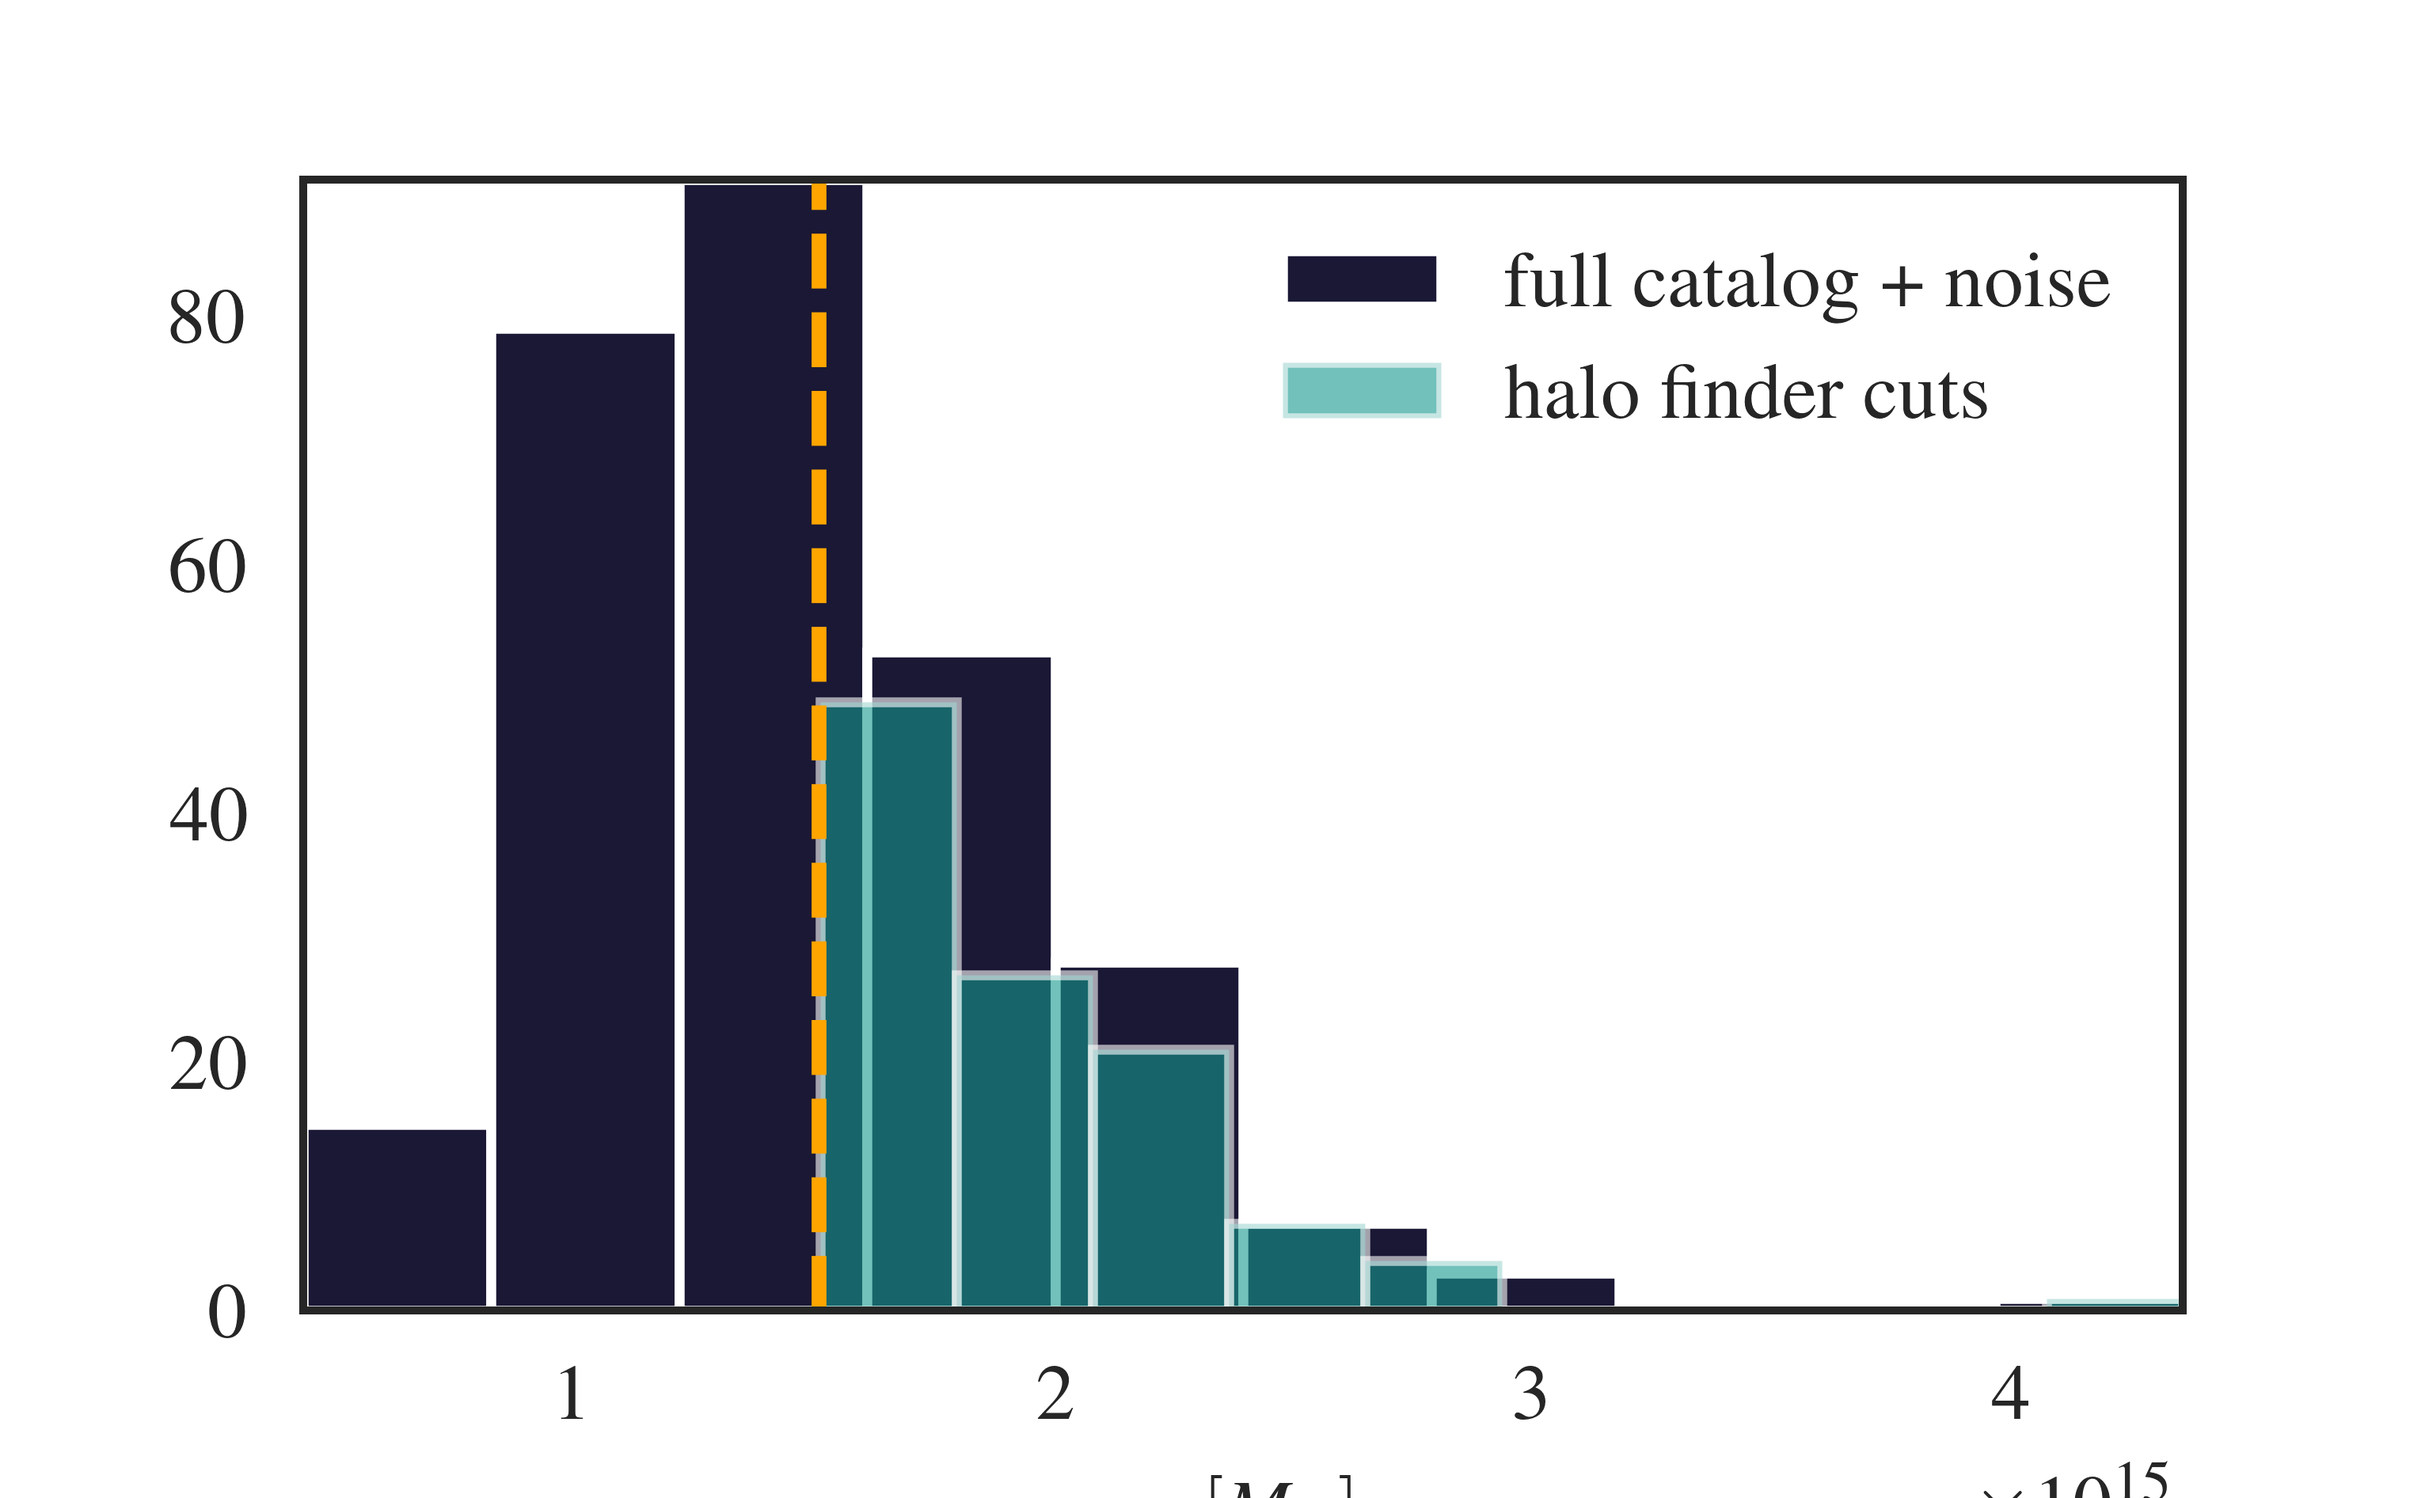
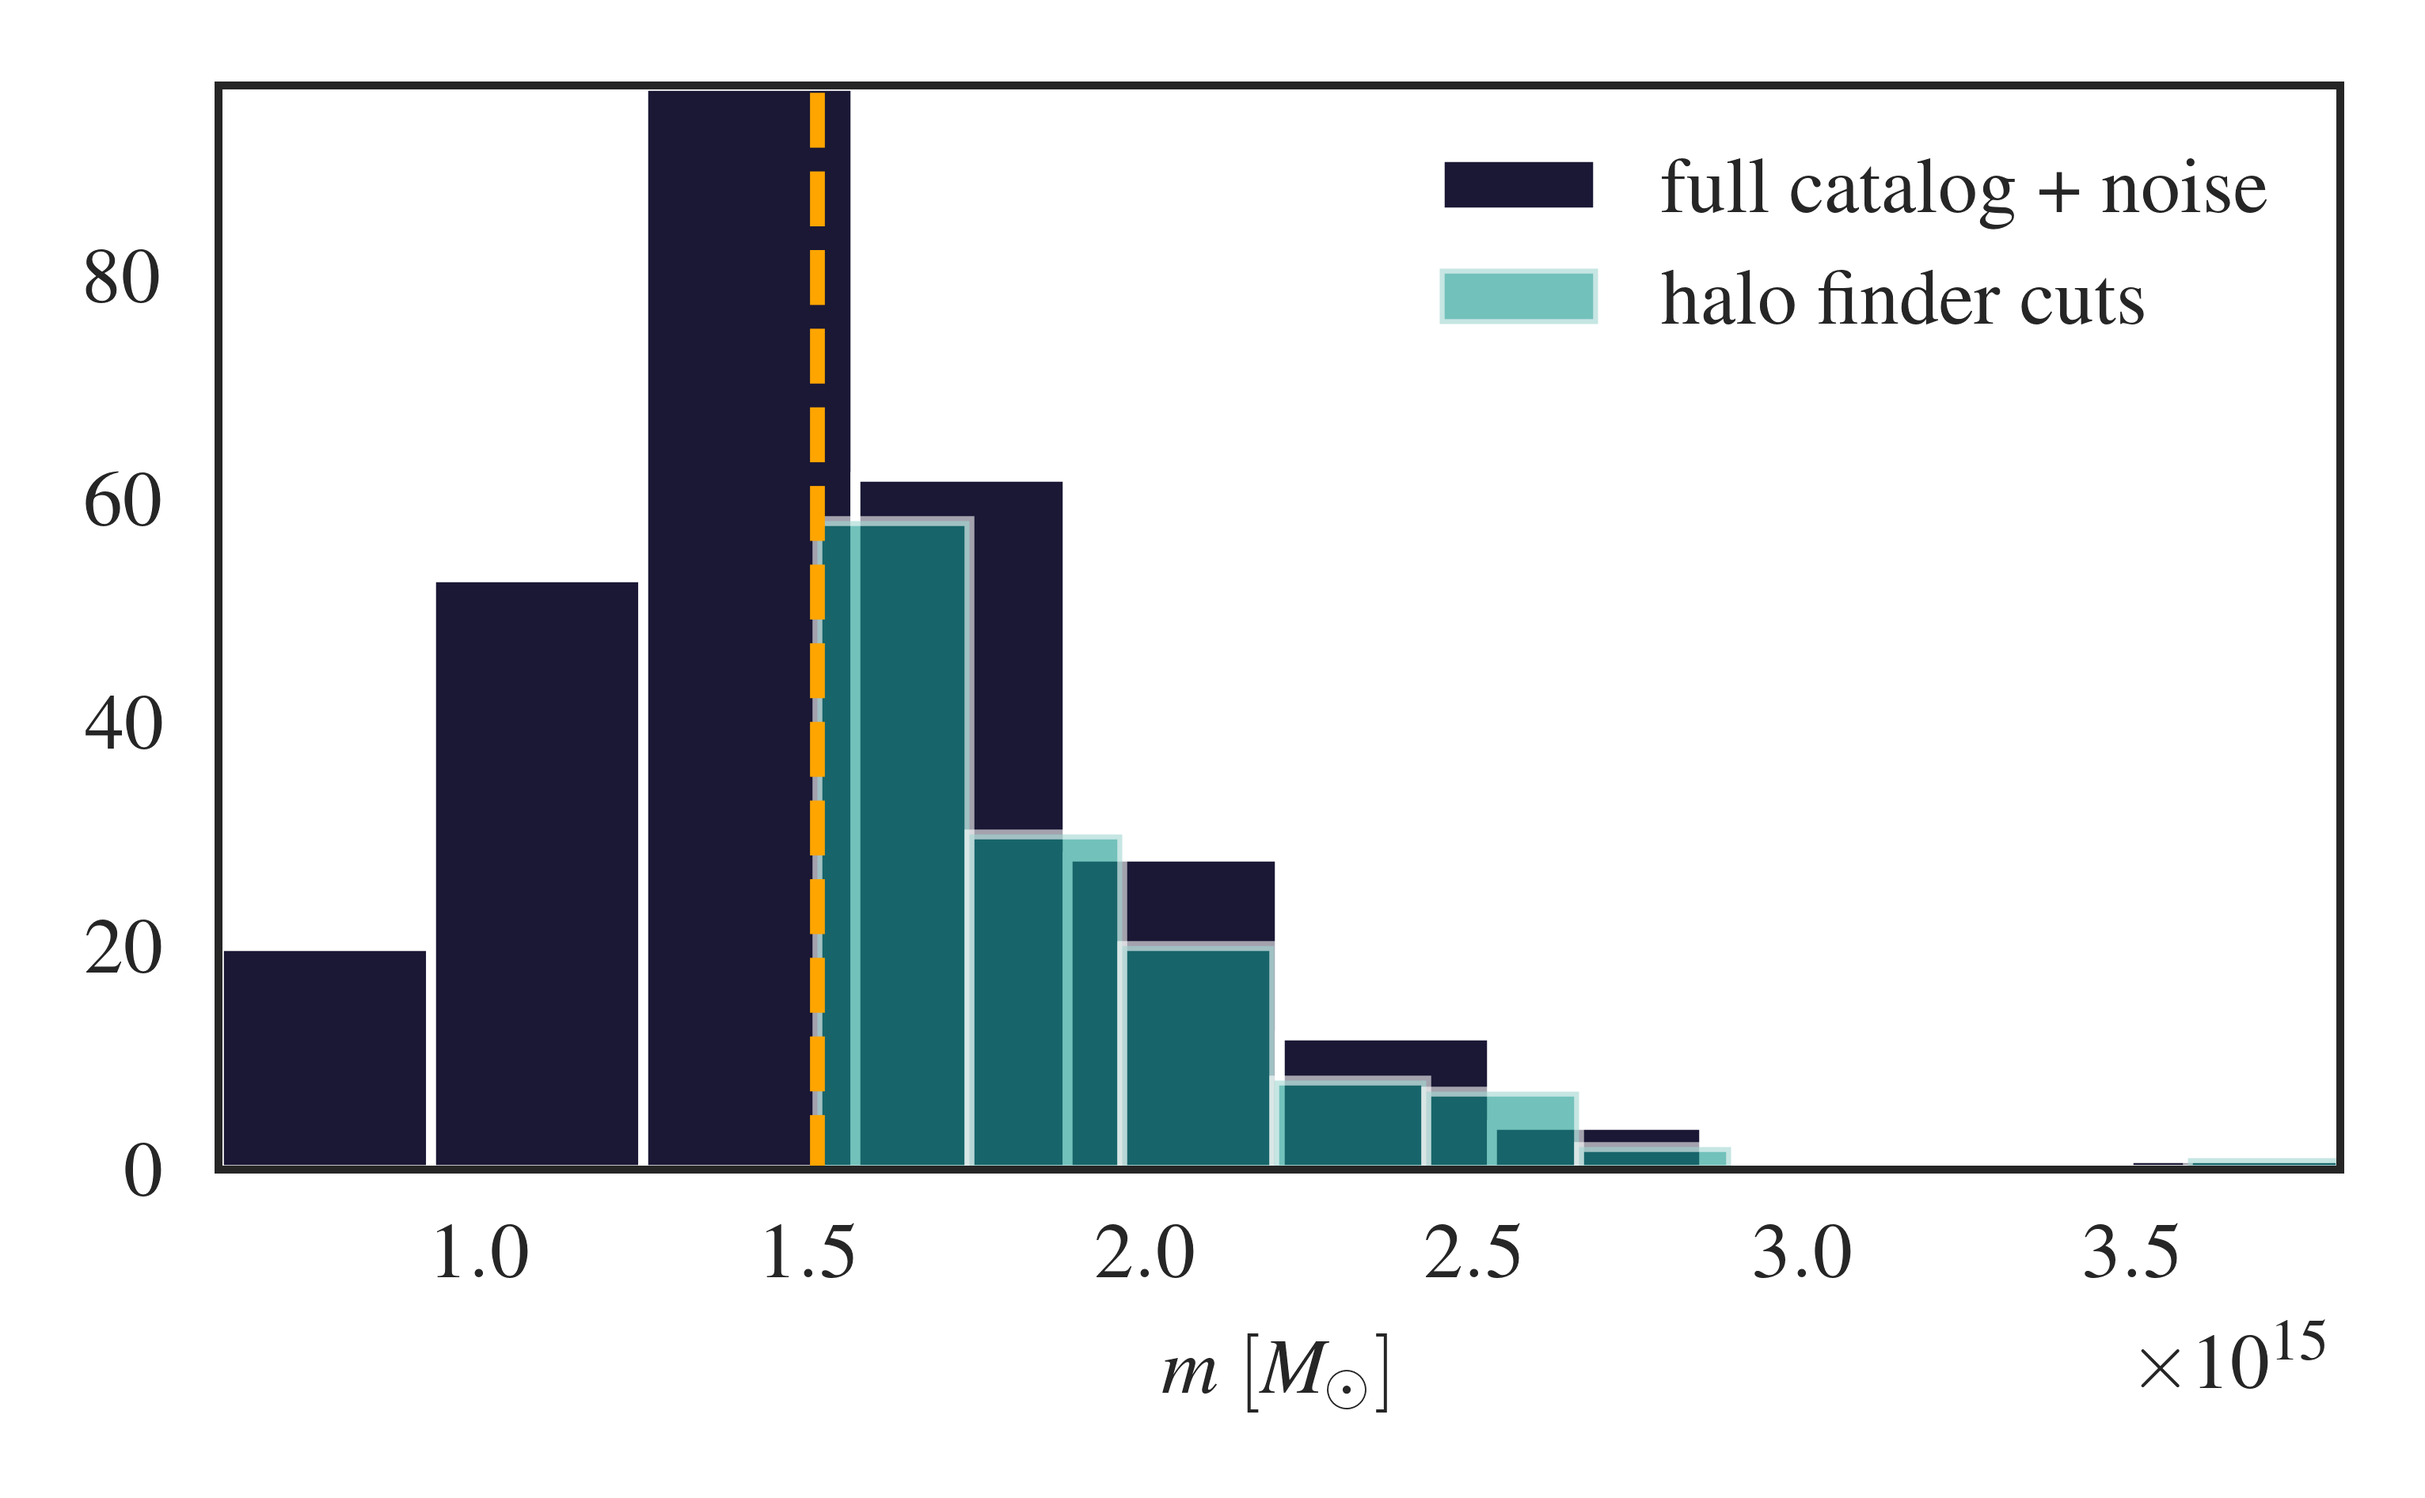
tweaks to blog theme and about

diff --git a/_posts/2022-09-12-cosmicgraphs.md b/_posts/2022-09-12-cosmicgraphs.md
@@ -1,4 +1,70 @@
 ---
+layout: distill
+title: "Cosmic Graphs: the Language of Large-Scale Structure"
+description: how much information is locked inside halo catalogues ?
+giscus_comments: true
+date: 2022-09-12 11:59:00-0400
+featured: true
+
+authors:
+  - name: T. Lucas Makinen
+    url: "https://en.wikipedia.org/wiki/Albert_Einstein"
+    affiliations:
+      name: Imperial College London
+
+bibliography: 2018-12-22-distill.bib
+
+# Optionally, you can add a table of contents to your post.
+# NOTES:
+#   - make sure that TOC names match the actual section names
+#     for hyperlinks within the post to work correctly.
+#   - we may want to automate TOC generation in the future using
+#     jekyll-toc plugin (https://github.com/toshimaru/jekyll-toc).
+toc:
+  # beginning: true
+  - name: Cosmology as an optimization problem
+    # if a section has subsections, you can add them as follows:
+    # subsections:
+    #    - name: "What is a graph ?"
+    #   - name: Example Child Subsection 2
+  - name: "Graphs: a Language for Large-Scale Structure"
+  # - name: "Extracting Information from graphs"
+  - name: "Graph Neural Networks"
+
+  - name: "Part I: varying graph connections and GNN complexity"
+
+  - name: "Part II: Incorporating Halo Mass"
+
+  - name: "Part III: A more realistic case: adding survey noise"
+
+       # - name: What is a graph ?
+  # - name: Footnotes
+  # - name: Code Blocks
+  # - name: Interactive Plots
+  # - name: Layouts
+  # - name: Other Typography?
+
+# Below is an example of injecting additional post-specific styles.
+# If you use this post as a template, delete this _styles block.
+# _styles: >
+#   .fake-img {
+#     background: #bbb;
+#     border: 1px solid rgba(0, 0, 0, 0.1);
+#     box-shadow: 0 0px 4px rgba(0, 0, 0, 0.1);
+#     margin-bottom: 12px;
+#   }
+#   .fake-img p {
+#     font-family: monospace;
+#     color: white;
+#     text-align: left;
+#     margin: 12px 0;
+#     text-align: center;
+#     font-size: 16px;
+#   }
+
+---
+
+<!-- ---
 layout: post
 title: "Cosmic Graphs: the Language of Large-Scale Structure"
 date: 2022-09-12 11:59:00-0400
@@ -8,13 +74,15 @@ giscus_comments: true
 related_posts: false
 toc:
   beginning: true
----
+featured: true
+--- -->
+
 
 
  
 <figure class="align-center">
 <p align="center">
-  <img src="https://media4.giphy.com/media/b8ICuMdjg37vQNjwTA/giphy.gif?cid=790b7611da6738a8551bc2d92f2eb821b6d853092aa22ca9&rid=giphy.gif" alt="dark matter graph" style="width:70%">
+  <img src="https://media4.giphy.com/media/b8ICuMdjg37vQNjwTA/giphy.gif?cid=790b7611da6738a8551bc2d92f2eb821b6d853092aa22ca9&rid=giphy.gif" alt="dark matter graph" style="width:70%" zoomable=true>
       </p>
   <figcaption align = "center"> </figcaption>
 </figure>
@@ -57,15 +125,14 @@ Cosmology can be thought of as a multigenerational *optimization problem*, with 
 Since the 1960's, cosmologists have used $n$-point functions to describe structure formation. The image data collected by state-of-the-art surveys are often immediately compressed into (still very large) galaxy and cluster catalogues, whose pairwise (2-point), triplet (3-point), ... distances can be compared to quantify how clustered the universe is on different scales.
 
 
-<figure  class="center">
-  <p align="center">
-    <img src="https://raw.githubusercontent.com/tlmakinen/cosmicGraphs/master/tutorial/twopoint-pk.png" alt="Trulli" width="25%">
-  </p>
-  <figcaption align = "left">
-
-  <b> Figure 1 </b> - <a href="https://universe-review.ca/"> The two-point function </a> in real space can be related to the power spectrum in Fourier space. It only fully describes Gaussian field statistics. </figcaption>
-</figure>
-
+  <div class="row">
+    <div class="col-sm mt-3 mt-md-0">
+        {% include figure.html path="/assets/img/cosmographs/graph_diagram.png" title="example image" class="img-fluid rounded z-depth-0" zoomable=true width=13% %}
+    </div>
+</div>
+<div class="caption">
+    <b> Figure 1 </b> - <a href="https://universe-review.ca/"> The two-point function </a> in real space can be related to the power spectrum in Fourier space. It only fully describes Gaussian field statistics.
+</div>
 
 2-point functions are easy to compute even for large data, but *don't capture all the information in highly non-gaussian fields*, like the LSS. 3-point functions reclaim a lot of this information, but are much more expensive to compute.
 
@@ -74,7 +141,7 @@ Since the 1960's, cosmologists have used $n$-point functions to describe structu
 
 <figure class="align-center">
 <p align="center">
-  <img src="https://media2.giphy.com/media/R2kXFYxbQNjkC5SxBV/giphy.gif?cid=790b7611ba802f5d69ce62b961e6fa17fbd9c61e5d697bf6&rid=giphy.gif" alt="dark matter graph" style="width:70%">
+  <img src="https://media4.giphy.com/media/b8ICuMdjg37vQNjwTA/giphy.gif?cid=790b7611da6738a8551bc2d92f2eb821b6d853092aa22ca9&rid=giphy.gif" alt="dark matter graph" style="width:70%">
       </p>
   <figcaption align = "left"> <b> Figure 2 </b>- Large-Scale Structure as a Graph. Nodes (halos) trace clusters, while edges (halo separations) trace filaments and outline voids. Both sets of features can be annotated with extra information like mass or redshift. </figcaption>
 </figure>
@@ -184,7 +251,7 @@ We trunctate a catalogue to halos with a minumum mass $M_{\rm cut}$. We'll then 
 
 <figure class="align-center">
 <p align="center">
- <img src="https://media3.giphy.com/media/YYELjI6JQ7QMjRFDlB/giphy.gif?cid=790b761182588d309019643cf623a7ea39297ce10bee4db4&rid=giphy.gif" alt="drawing" style="width:70%"/>
+ <img src="https://media4.giphy.com/media/b8ICuMdjg37vQNjwTA/giphy.gif?cid=790b7611da6738a8551bc2d92f2eb821b6d853092aa22ca9&rid=giphy.gif" alt="drawing" style="width:70%"/>
   <figcaption align = "center"> <b> Figure 3 </b> - Graphs are assembled by making a mass cut. The darker nodes and edges are heavier halos above $ M_{\rm cut} = 1.5  \times 10^{15} M_{\rm sun} $, while the lighter graph is smaller-scale structure at $M > 1.1 \times10^{15} M_{\rm sun}$. </figcaption>
   </p>
 </figure>
@@ -228,6 +295,7 @@ $$
 
 
 # Extracting Information from graphs
+
 But how do we extract information from a set of edges and nodes whose size changes ? Enter graph Information Maximising Neural Networks (gIMNNs) ! Remember how cosmology can be thought of as an optimization problem to find informative statistics ? IMNNs do precisely that, from simulations !
 
 <figure>
@@ -330,7 +398,7 @@ We built the IMNN and simulation scheme in the `Jax` framework. For detailed cod
 
 <div class="row">
     <div class="col-sm mt-3 mt-md-0">
-        {% include figure.html path="https://raw.githubusercontent.com/tlmakinen/tlmakinen.github.io/master/assets/cosmographs/info-extraction-cartoon.png" title="example image" class="img-fluid rounded z-depth-0" %}
+        {% include figure.html path="https://raw.githubusercontent.com/tlmakinen/tlmakinen.github.io/master/assets/cosmographs/info-extraction-cartoon.png" title="example image" class="img-fluid rounded z-depth-0" zoomable=true %}
     </div>
 </div>
 <div class="caption">
@@ -365,7 +433,7 @@ The plot above is what we call a "Fisher forecast" for cosmological parameters. 
 
 <div class="row">
     <div class="col-sm mt-3 mt-md-0">
-        {% include figure.html path="https://raw.githubusercontent.com/tlmakinen/tlmakinen.github.io/master/assets/cosmographs/F-withmass-intfsigma.png" title="example image" class="img-fluid rounded z-depth-0" %}
+        {% include figure.html path="https://raw.githubusercontent.com/tlmakinen/tlmakinen.github.io/master/assets/cosmographs/F-withmass-intfsigma.png" title="example image" class="img-fluid rounded z-depth-0" zoomable=true %}
     </div>
 </div>
 <div class="caption">
@@ -453,7 +521,7 @@ mass estimates. We can think of this as a likelihood for a halo finder operating
 
 <figure class="align-center">
 <p align="center">
- <img src="https://raw.githubusercontent.com/tlmakinen/tlmakinen.github.io/master/assets/cosmographs/masscut.png" alt="drawing" width="65%" />
+ <img src="/assets/img/cosmographs/masscut.png" alt="drawing" width="65%" />
   <figcaption align = "left"> <b> Figure 10 </b> - Mass distribution after added noise,  $\sigma_{\rm noise}=0.2 M_{\rm cut}$ (black) and simulated halo finder cuts (teal) for a single fiducial simulation for masses larger than $1.1 \times 10^{15}\ M_\odot$. The orange dashed lines indicates the minimum mass considered by the ``survey'' cutoff, $M_{\rm cut}=1.5\times 10^{15}\ M_\odot$.  </figcaption>
   </p>
 </figure>

diff --git a/_pages/music.md b/_pages/music.md
@@ -1,16 +1,17 @@
 ---
-layout: page
+layout: about
 title: music
 permalink: /music/
+nav: true
 # profile:
-#   align: right
+#   align: left
 #   image: prof_pic.jpg
-#   image_circular: false # crops the image to make it circular
-#   address: >
-#     <p>1003 Blackett Laboratory</p>
-#     <p>Imperial College London</p>
-#     <p>South Kensington SW7 2AZ </p>
-#     <p> United Kingdom </p>
-
-social: true  # includes social icons at the bottom of the page
+#   image_circular: true # crops the image to make it circular
+#   address: 
 ---
+
+## Features
+
+<iframe style="border-radius:12px" src="https://open.spotify.com/embed/track/67aQefS0bpWqtRULPM3X46?utm_source=generator&theme=0" width="100%" height="152" frameBorder="0" allowfullscreen="" allow="autoplay; clipboard-write; encrypted-media; fullscreen; picture-in-picture" loading="lazy"></iframe>
+
+

diff --git a/_pages/about.md b/_pages/about.md
@@ -1,13 +1,13 @@
 ---
 layout: about
-title: about
+title:
 permalink: /
 subtitle: <a href='#'>Affiliations</a>. Address. Contacts. Moto. Etc.
 
 profile:
   align: right
   image: prof_pic.jpg
-  image_circular: false # crops the image to make it circular
+  image_circular: true # crops the image to make it circular
   address: >
     <p>1003 Blackett Laboratory</p>
     <p>Imperial College London</p>

diff --git a/_pages/dropdown.md b/_pages/dropdown.md
@@ -2,7 +2,7 @@
 layout: page
 title: 
 nav: true
-nav_order: 6
+nav_order: 23
 dropdown: true
 children: 
     - title: publications
@@ -13,4 +13,7 @@ children:
     - title: divider
     - title: teaching
       permalink: /teaching/
+    - title: divider
+    - title: cv
+      permalink: /cv/
 ---

diff --git a/_pages/teaching.md b/_pages/teaching.md
@@ -3,7 +3,7 @@ layout: page
 permalink: /teaching/
 title: teaching
 description: Materials for courses you taught. Replace this text with your description.
-nav: true
+nav: false
 nav_order: 5
 ---
 

diff --git a/_pages/cv.md b/_pages/cv.md
@@ -2,7 +2,7 @@
 layout: cv
 permalink: /cv/
 title: cv
-nav: true
-nav_order: 4
+nav: false
+nav_order: 9
 cv_pdf: example_pdf.pdf
 ---
